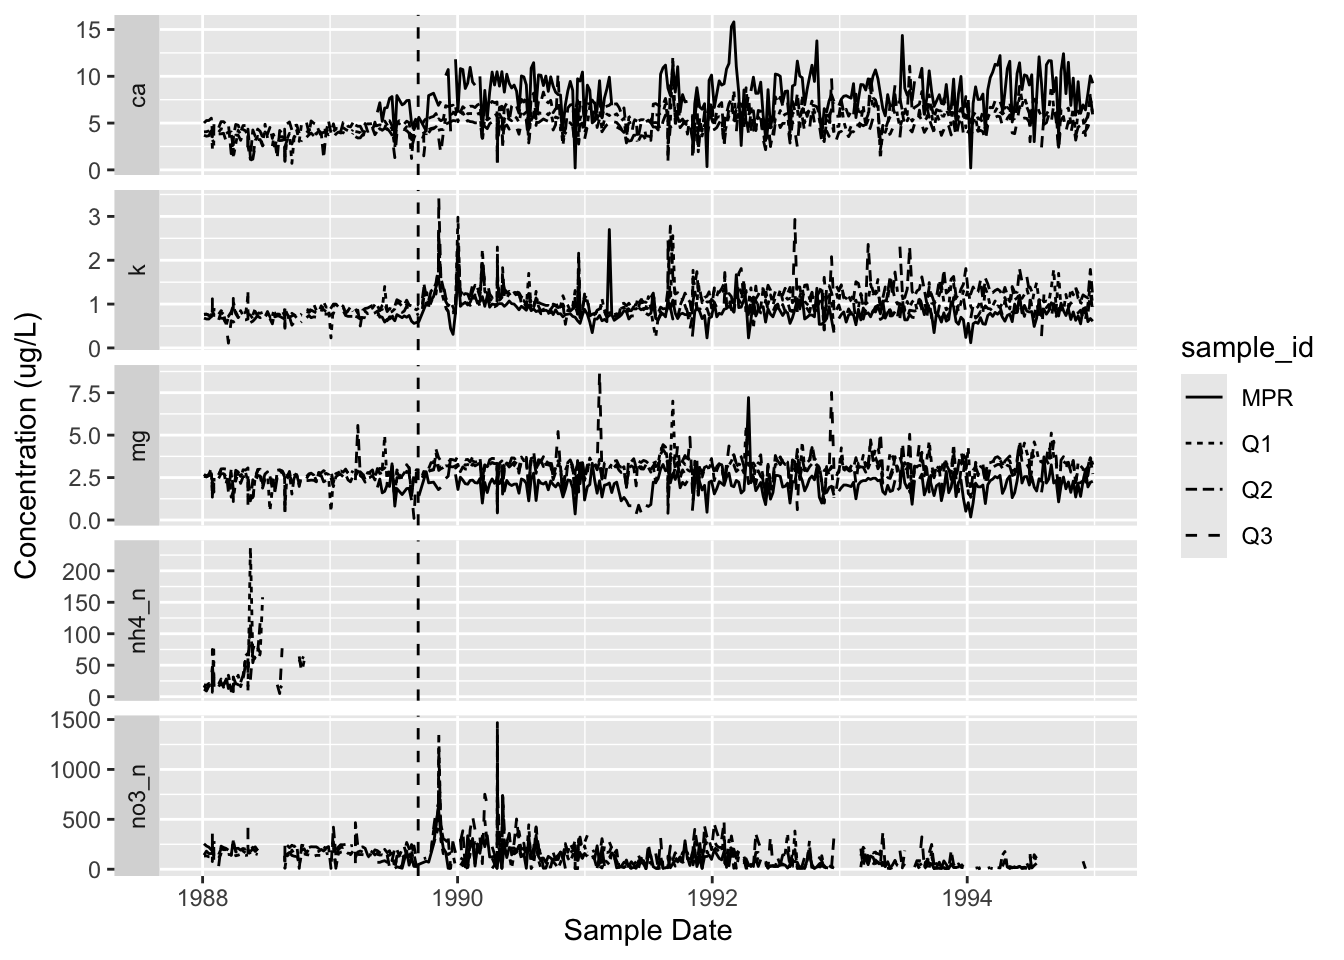
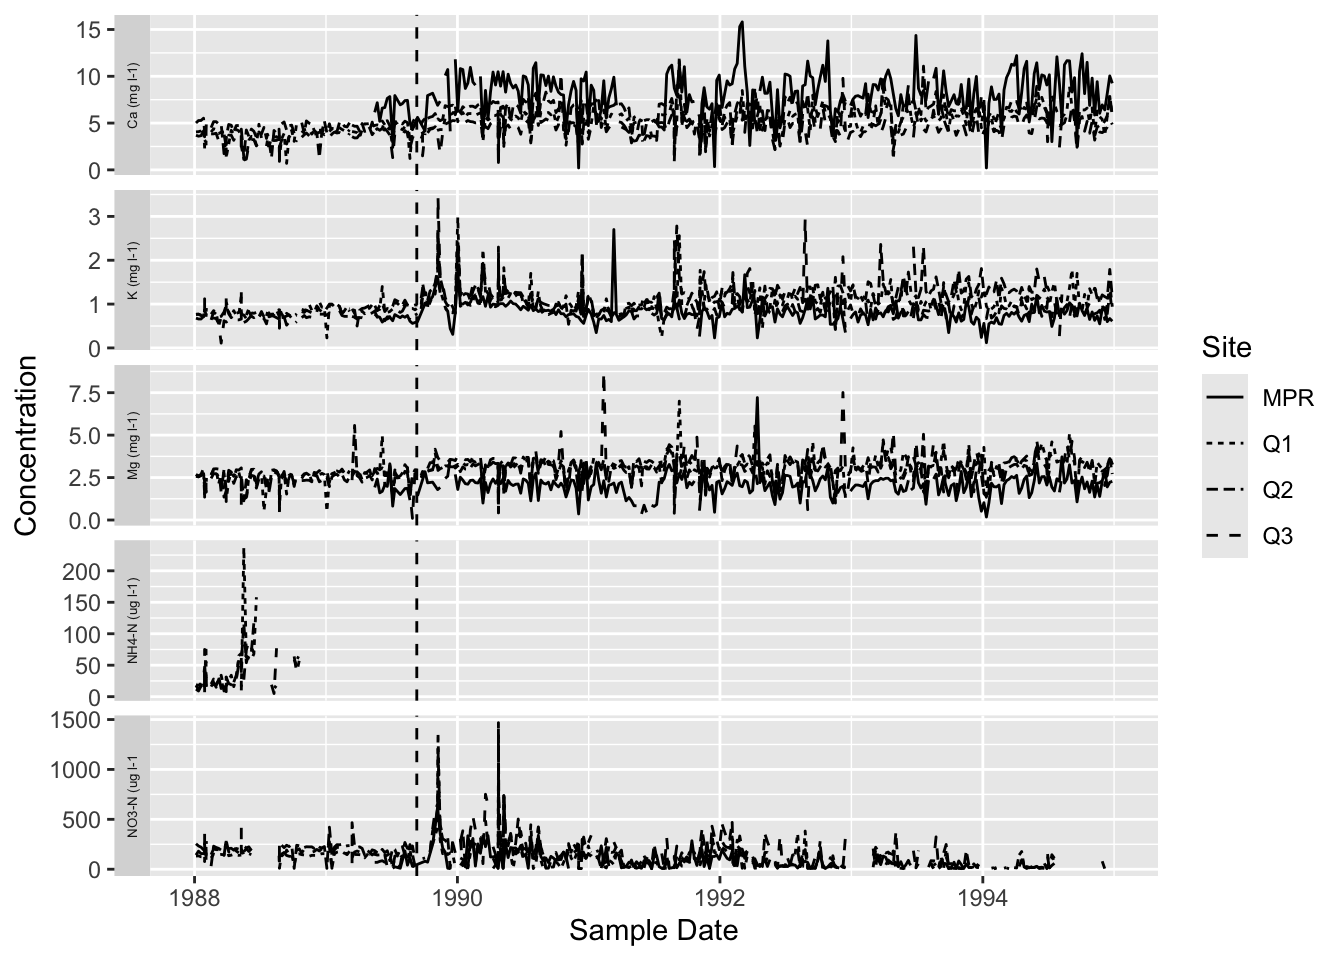
Instructor feedback

diff --git a/docs/paper.html b/docs/paper.html
@@ -130,7 +130,7 @@ pre > code.sourceCode > span > a:first-child::before { text-decoration: underlin
 </section>
 <section id="methods" class="level2">
 <h2 class="anchored" data-anchor-id="methods">Methods</h2>
-<p>Instruction on data cleaning to isolate variables of interest and pivot the dataframe from wide to long format. The moving_average function sourced from an R script located in the R folder was used within the spply function to calculate 9 week rolling means of ion concentrations to smooth out gaps in the inconsistent data.</p>
+<p>Instruction on data cleaning to isolate variables of interest and pivot the dataframe from wide to long format. The moving_average function sourced from an R script located in the R folder was used within the sapply function to calculate 9 week rolling means of ion concentrations to smooth out gaps in the inconsistent data.</p>
 <div class="cell">
 <div class="sourceCode cell-code" id="cb2"><pre class="sourceCode r code-with-copy"><code class="sourceCode r"><span id="cb2-1"><a href="#cb2-1" aria-hidden="true" tabindex="-1"></a><span class="co"># Merge all datasets together with rbind to create a 'long' dataframe with variables stacked.  </span></span>
 <span id="cb2-2"><a href="#cb2-2" aria-hidden="true" tabindex="-1"></a></span>
@@ -171,12 +171,20 @@ pre > code.sourceCode > span > a:first-child::before { text-decoration: underlin
 <span id="cb3-4"><a href="#cb3-4" aria-hidden="true" tabindex="-1"></a>  <span class="fu">geom_line</span>(<span class="fu">aes</span>(<span class="at">x =</span> sample_date,</span>
 <span id="cb3-5"><a href="#cb3-5" aria-hidden="true" tabindex="-1"></a>                 <span class="at">y =</span> concentration, <span class="at">linetype =</span> sample_id)) <span class="sc">+</span></span>
 <span id="cb3-6"><a href="#cb3-6" aria-hidden="true" tabindex="-1"></a>  <span class="fu">geom_vline</span>(<span class="at">xintercept =</span> <span class="fu">as.Date</span>(<span class="st">"1989-09-10"</span>), <span class="at">linetype =</span> <span class="st">"dashed"</span>) <span class="sc">+</span> </span>
-<span id="cb3-7"><a href="#cb3-7" aria-hidden="true" tabindex="-1"></a>               <span class="fu">facet_wrap</span>(<span class="sc">~</span>stream_ion, <span class="at">scales =</span> <span class="st">"free_y"</span>, <span class="at">ncol =</span> <span class="dv">1</span>, </span>
-<span id="cb3-8"><a href="#cb3-8" aria-hidden="true" tabindex="-1"></a>                          <span class="at">strip.position =</span> <span class="st">"left"</span>) <span class="sc">+</span> </span>
-<span id="cb3-9"><a href="#cb3-9" aria-hidden="true" tabindex="-1"></a>  <span class="fu">ylab</span>(<span class="st">"Concentration (ug/L)"</span>) <span class="sc">+</span> </span>
-<span id="cb3-10"><a href="#cb3-10" aria-hidden="true" tabindex="-1"></a>  <span class="fu">xlab</span>(<span class="st">"Sample Date"</span>) </span>
-<span id="cb3-11"><a href="#cb3-11" aria-hidden="true" tabindex="-1"></a></span>
-<span id="cb3-12"><a href="#cb3-12" aria-hidden="true" tabindex="-1"></a>mov_conc_plot</span></code><button title="Copy to Clipboard" class="code-copy-button"><i class="bi"></i></button></pre></div>
+<span id="cb3-7"><a href="#cb3-7" aria-hidden="true" tabindex="-1"></a>               <span class="fu">facet_wrap</span>(<span class="sc">~</span>stream_ion, <span class="at">scales =</span> <span class="st">"free_y"</span>, </span>
+<span id="cb3-8"><a href="#cb3-8" aria-hidden="true" tabindex="-1"></a>                          <span class="at">ncol =</span> <span class="dv">1</span>, </span>
+<span id="cb3-9"><a href="#cb3-9" aria-hidden="true" tabindex="-1"></a>                          <span class="at">strip.position =</span> <span class="st">"left"</span>, </span>
+<span id="cb3-10"><a href="#cb3-10" aria-hidden="true" tabindex="-1"></a>                          <span class="at">labeller =</span> <span class="fu">as_labeller</span>(<span class="fu">c</span>(<span class="at">ca =</span> <span class="st">"Ca (mg l-1)"</span>,</span>
+<span id="cb3-11"><a href="#cb3-11" aria-hidden="true" tabindex="-1"></a>                                              <span class="at">k =</span> <span class="st">"K (mg l-1)"</span>,</span>
+<span id="cb3-12"><a href="#cb3-12" aria-hidden="true" tabindex="-1"></a>                                              <span class="at">mg =</span> <span class="st">"Mg (mg l-1)"</span>, </span>
+<span id="cb3-13"><a href="#cb3-13" aria-hidden="true" tabindex="-1"></a>                                              <span class="at">nh4_n =</span> <span class="st">"NH4-N (ug l-1)"</span>, </span>
+<span id="cb3-14"><a href="#cb3-14" aria-hidden="true" tabindex="-1"></a>                                              <span class="at">no3_n =</span> <span class="st">"NO3-N (ug l-1"</span>))) <span class="sc">+</span> </span>
+<span id="cb3-15"><a href="#cb3-15" aria-hidden="true" tabindex="-1"></a>  <span class="fu">theme</span>(<span class="at">strip.text =</span> <span class="fu">element_text</span>(<span class="at">size =</span> <span class="dv">5</span>)) <span class="sc">+</span> </span>
+<span id="cb3-16"><a href="#cb3-16" aria-hidden="true" tabindex="-1"></a>  <span class="fu">ylab</span>(<span class="st">"Concentration"</span>) <span class="sc">+</span> </span>
+<span id="cb3-17"><a href="#cb3-17" aria-hidden="true" tabindex="-1"></a>  <span class="fu">xlab</span>(<span class="st">"Sample Date"</span>) <span class="sc">+</span> </span>
+<span id="cb3-18"><a href="#cb3-18" aria-hidden="true" tabindex="-1"></a>  <span class="fu">labs</span>(<span class="at">linetype =</span> <span class="st">"Site"</span>)</span>
+<span id="cb3-19"><a href="#cb3-19" aria-hidden="true" tabindex="-1"></a></span>
+<span id="cb3-20"><a href="#cb3-20" aria-hidden="true" tabindex="-1"></a>mov_conc_plot</span></code><button title="Copy to Clipboard" class="code-copy-button"><i class="bi"></i></button></pre></div>
 <div class="cell-output-display">
 <div>
 <figure class="figure">

diff --git a/instructor-feedback.md b/instructor-feedback.md
@@ -1,0 +1,15 @@
+## Collaboration 
+
+I think my participation in the peer feedback went well. I looked over Peter's project which was pretty polished at the time. He met almost all specs. The only one that was not met was the visual flowchart in the read.me. I opened up this issue in github and also added a roxygen skeleton to his two functions in their r script. 
+
+Resolved Issues: 
+
+https://github.com/sandovaljoaquin/EDS-214_project/issues/1
+
+https://github.com/sandovaljoaquin/EDS-214_project/issues/3
+
+https://github.com/sandovaljoaquin/EDS-214_project/issues/7
+
+Resolved Merge Conflict: 
+
+Was running into issues resolving mine. Have not successfully resolved a merge conflict. 
